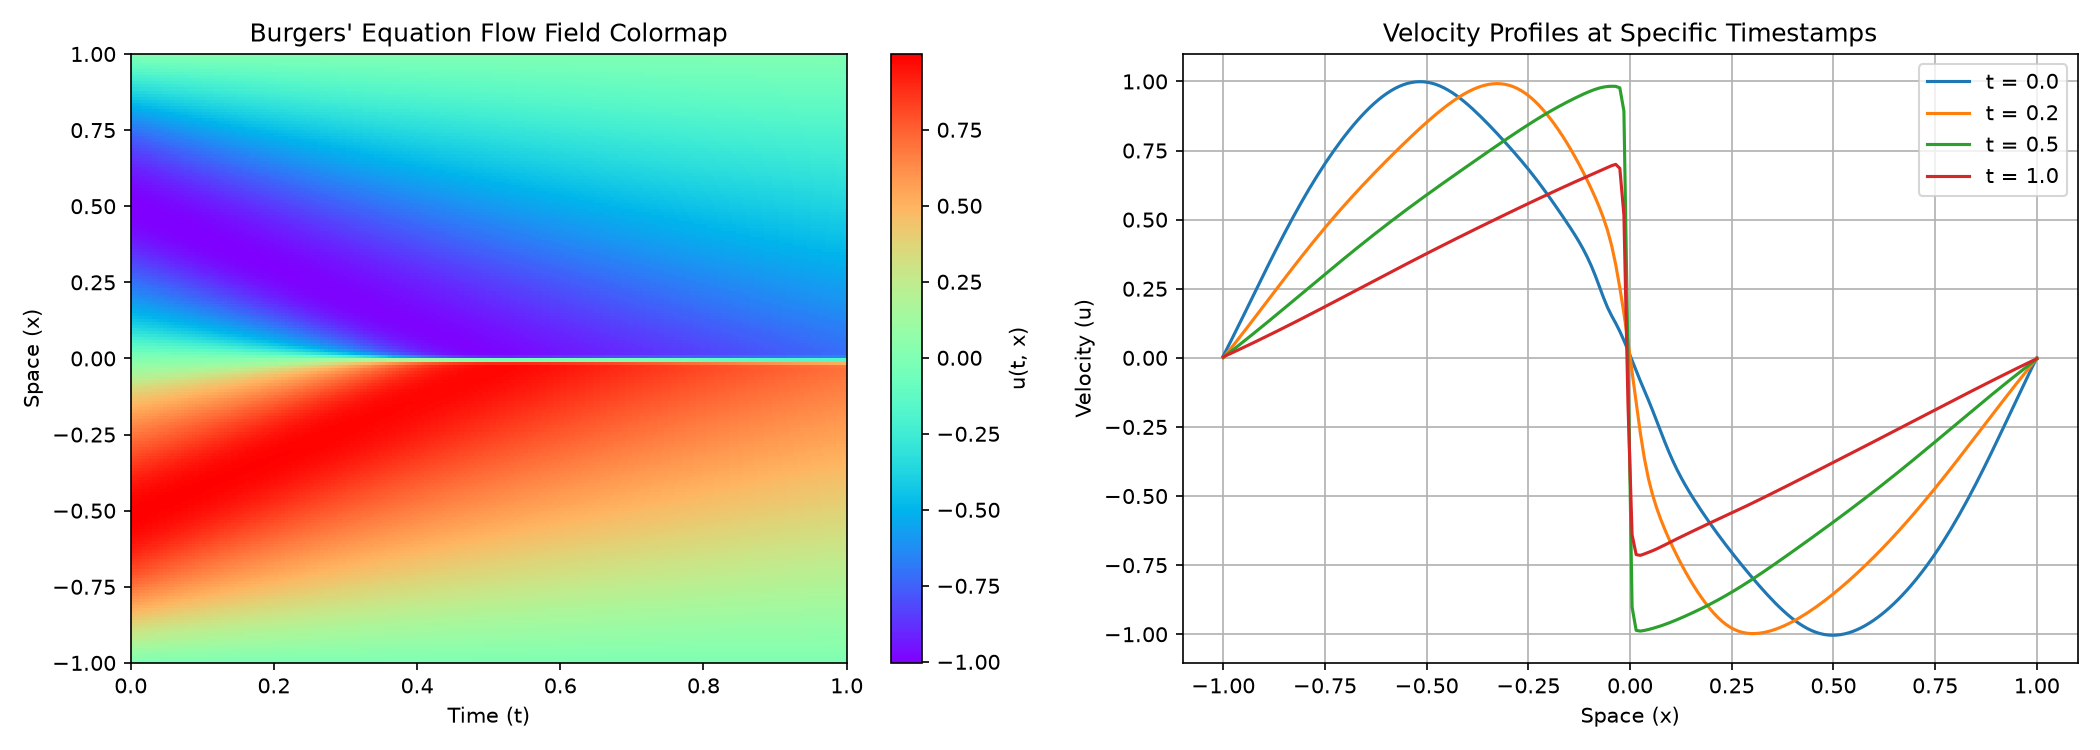
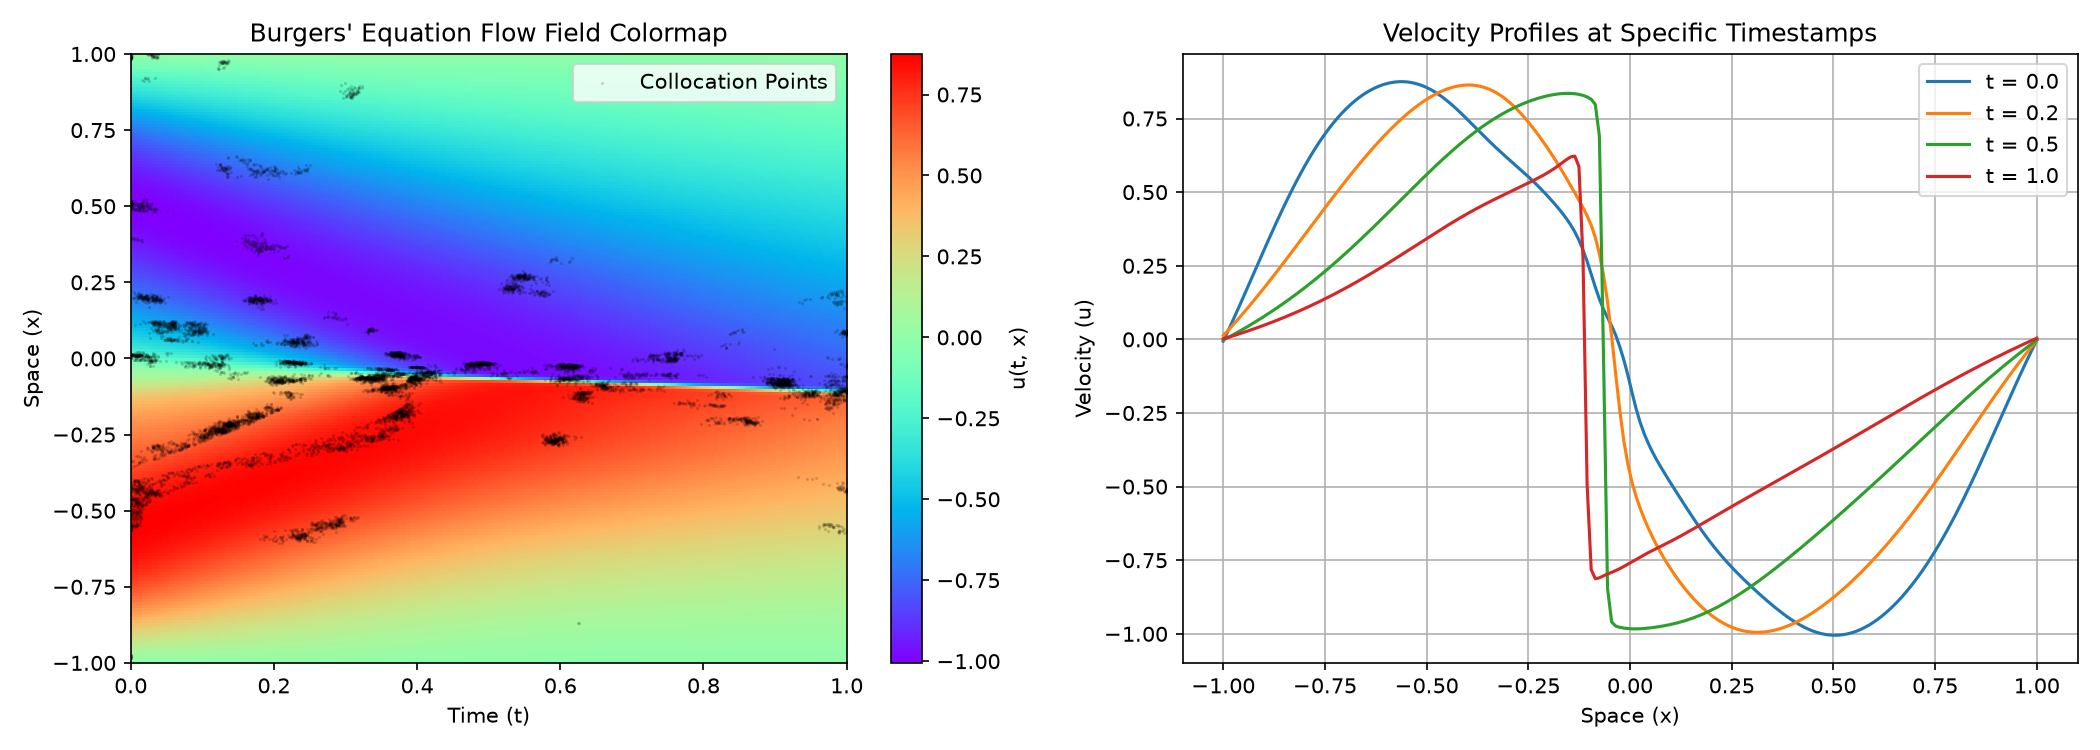
Add Residual-based Adaptive Resampling (RAR) mechanism and visualize collocation points distribution

diff --git a/train.py b/train.py
@@ -54,14 +54,42 @@ def loss_fn(params, t_ic, x_ic, u_ic, t_bc, x_bc, u_bc, t_col, x_col, nu):
 
     return loss_ic + loss_bc + loss_physics
 
-def save_params(params, path):
-    """将参数序列化并保存为 npz 文件"""
+def save_params(params, t_col, x_col, path):
+    """将参数序列化和最终采样点保存为 npz 文件"""
     flat_params = {}
     for idx, layer in enumerate(params):
         flat_params[f"W_{idx}"] = layer['W']
         flat_params[f"b_{idx}"] = layer['b']
+    flat_params["t_col"] = t_col
+    flat_params["x_col"] = x_col
     jnp.savez(path, **flat_params)
-    print(f"Saved parameters to {path}")
+    print(f"Saved parameters and final collocation points to {path}")
+
+def adaptive_resample(params, t_col, x_col, nu, key, top_k=2000, noise_std=0.005):
+    """自适应重采样机制 (RAR)：找出物理残差最大的 top_k 个点，并在其周围分裂繁衍"""
+    f_preds = residual_v(params, t_col, x_col, nu)
+    abs_residuals = jnp.abs(f_preds)
+    
+    # 按照残差大小排序，提取 top_k 个困难点
+    top_indices = jnp.argsort(abs_residuals)[-top_k:]
+    t_hard = t_col[top_indices]
+    x_hard = x_col[top_indices]
+    
+    # 局部高斯扰动繁衍出新点
+    k1, k2 = jax.random.split(key)
+    t_new = t_hard + jax.random.normal(k1, shape=t_hard.shape) * noise_std
+    x_new = x_hard + jax.random.normal(k2, shape=x_hard.shape) * noise_std
+    
+    # 用新点替换掉已学好（残差最小）的 top_k 个容易点，保证 Static Shapes
+    bottom_indices = jnp.argsort(abs_residuals)[:top_k]
+    t_col = t_col.at[bottom_indices].set(t_new)
+    x_col = x_col.at[bottom_indices].set(x_new)
+    
+    # 确保坐标不溢出 [0, 1]x[-1, 1]
+    t_col = jnp.clip(t_col, 0.0, 1.0)
+    x_col = jnp.clip(x_col, -1.0, 1.0)
+    
+    return t_col, x_col
 
 def main():
     # 超参数与初始化设置
@@ -104,13 +132,22 @@ def main():
         new_params = optax.apply_updates(params, updates)
         return new_params, opt_state, loss_val
 
-    print("Starting training loop...")
+    print("Starting training loop with Adaptive Resampling...")
     for step in range(1, steps + 1):
         params, opt_state, loss = train_step(params, opt_state, t_col, x_col)
         if step % 1000 == 0:
             print(f"Step {step}/{steps} - Loss: {loss:.5e}")
+            
+            # 自适应重采样
+            key, subkey = jax.random.split(key)
+            t_col, x_col = adaptive_resample(
+                params, t_col, x_col, nu, subkey,
+                top_k=2000,
+                noise_std=0.005
+            )
 
-    save_params(params, "pinn_params.npz")
+    save_params(params, t_col, x_col, "pinn_params.npz")
+
 
 if __name__ == "__main__":
     main()

diff --git a/plot.py b/plot.py
@@ -47,9 +47,19 @@ def main():
     ax1 = fig.add_subplot(121)
     im = ax1.imshow(U, extent=[0, 1, -1, 1], cmap='rainbow', aspect='auto', origin='lower')
     fig.colorbar(im, ax=ax1, label='u(t, x)')
+    
+    # 叠加自适应采样的共轭点
+    data = jnp.load("pinn_params.npz")
+    if "t_col" in data and "x_col" in data:
+        t_col = data["t_col"]
+        x_col = data["x_col"]
+        ax1.scatter(t_col, x_col, color='black', alpha=0.15, s=0.3, label='Collocation Points')
+        ax1.legend(loc='upper right')
+
     ax1.set_xlabel('Time (t)')
     ax1.set_ylabel('Space (x)')
     ax1.set_title("Burgers' Equation Flow Field Colormap")
+
 
     # 2. 特定时间的速度剖面曲线
     ax2 = fig.add_subplot(122)